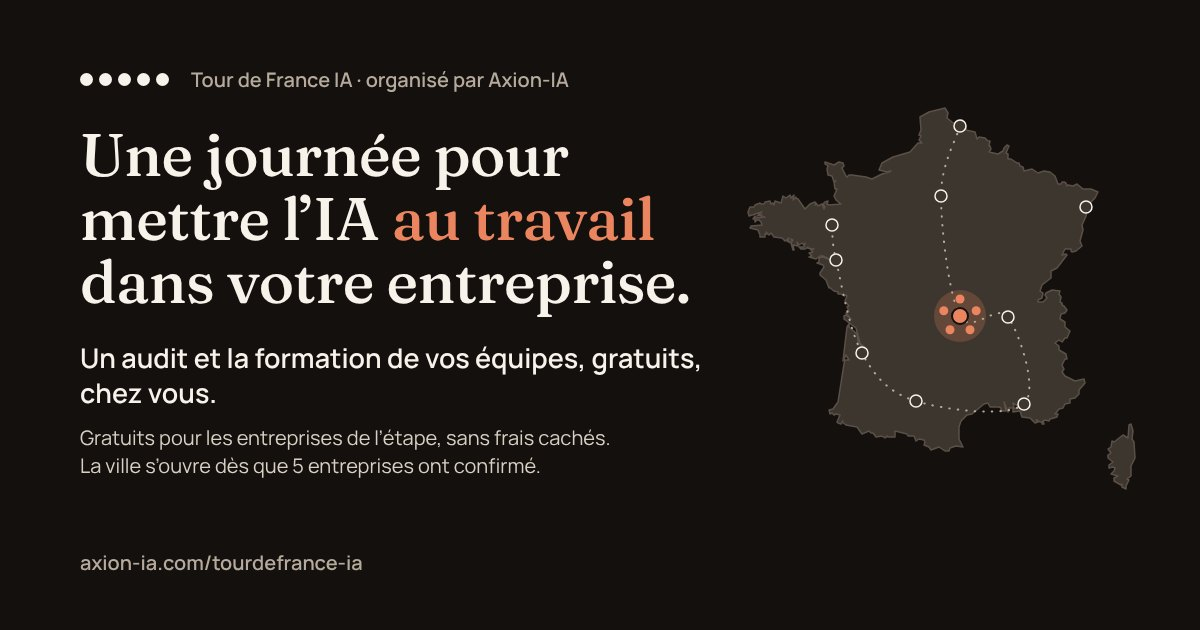
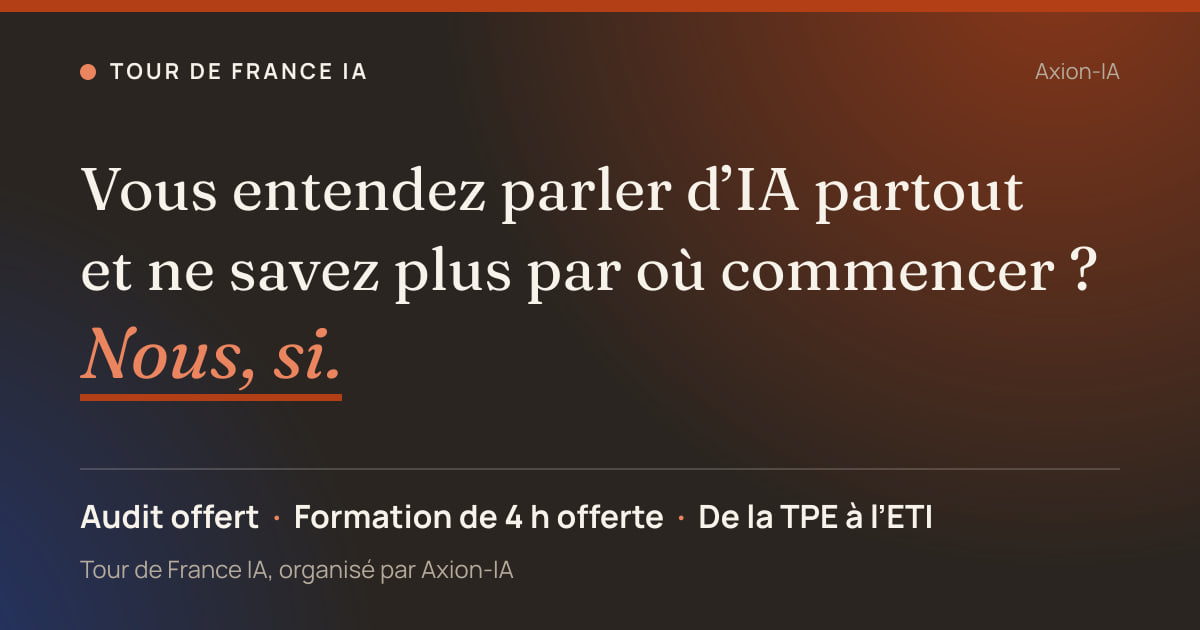
feat(tour): finitions de la landing /tourdefrance-ia (image de partage, premier écran, a11y) (#1710)
* feat(tour): finitions de la landing après relecture de #1706

- image de partage régénérée (accroche de Will, audit et formation de 4 h
  offerts, de la TPE à l'ETI), 68,6 Ko, avec son script de génération ;
- textes alternatifs alignés sur l'image réelle (META.imageAlt, *.alt.txt) ;
- FAQ « Pourquoi 5 entreprises ? » reformulée ;
- héros : sous `sm`, la condition passe sous le bouton (bouton visible à 360 × 640) ;
- logo de l'en-tête : role="img" pour que son aria-label soit lu ;
- libellés « Participer » remplacés par le vocabulaire de la landing.

Claude-Session: https://claude.ai/code/session_014YydL9wfGpRZm7irPaUxob

* test(tour): renforce les tests d'ordre de la condition et de comptage de l'accroche

- La condition du héros existe en deux copies (hidden sm:block avant le
  bouton, sm:hidden juste après sur mobile) : le test vérifie les deux,
  leur classe et leur position.
- L'accroche complète ne peut apparaître que deux fois (H1 + imageAlt).

Claude-Session: https://claude.ai/code/session_01B1YDyreJHkCLbUbvwirM5M

---------

diff --git a/src/app/tourdefrance-ia/__tests__/la-landing-convertit.spec.tsx b/src/app/tourdefrance-ia/__tests__/la-landing-convertit.spec.tsx
@@ -143,12 +143,25 @@ describe("🔑 une seule action : l'audit offert", () => {
     expect(lire(`${DOSSIER}/layout.tsx`)).toContain("overflow-x-clip");
   });
 
-  it("le héros dit l'offre, sa condition et le bouton AVANT le dessin (ordre de lecture)", () => {
+  it("condition avant le bouton à partir de sm, juste sous le bouton sur mobile", () => {
     const i = (s: string) => PAGE.indexOf(s);
     expect(i("<h1")).toBeGreaterThan(-1);
     expect(i("<h1")).toBeLessThan(i("{HEROS.sousTitre}"));
-    expect(i("{HEROS.condition}")).toBeLessThan(i("id={ID_CTA_HEROS}"));
-    expect(i("id={ID_CTA_HEROS}")).toBeLessThan(i("<CarteFrance"));
+    // La condition existe en DEUX copies, une seule affichée selon la largeur.
+    expect(PAGE.match(/\{HEROS\.condition\}/g)).toHaveLength(2);
+    const large = i("{HEROS.condition}");
+    const mobile = PAGE.indexOf("{HEROS.condition}", large + 1);
+    const balise = (pos: number) => PAGE.slice(PAGE.lastIndexOf("<p", pos), pos);
+    const cta = i("id={ID_CTA_HEROS}");
+    // Écrans larges : la copie `hidden sm:block`, AVANT le bouton.
+    expect(balise(large)).toMatch(/className="[^"]*\bhidden\b[^"]*"/);
+    expect(balise(large)).toContain("sm:block");
+    expect(large).toBeLessThan(cta);
+    // Mobile : la copie `sm:hidden`, APRÈS le bouton et AVANT le dessin.
+    expect(balise(mobile)).toContain("sm:hidden");
+    expect(mobile).toBeGreaterThan(cta);
+    expect(mobile).toBeLessThan(i("<CarteFrance"));
+    expect(cta).toBeLessThan(i("<CarteFrance"));
     // Le bouton du héros reste le premier GRAND bouton de la page.
     expect(i('depuis="tdf-heros"')).toBeLessThan(i('depuis="tdf-bandeau"'));
   });
@@ -609,8 +622,10 @@ describe("🔴 le vocabulaire de la landing", () => {
   });
 
   it("ni promesse de résultat ni construction du slogan d'Axion (« partout… sauf »)", () => {
-    // « partout » n'est permis que dans l'accroche de Will, le H1.
-    expect(texte.replace(HEROS.titreAvant, "")).not.toMatch(/\bpartout\b/i);
+    // « partout » n'est permis que dans l'accroche de Will : le H1, et le texte
+    // alternatif de l'image de partage, qui la recopie.
+    expect(texte.split(HEROS.titreAvant).length - 1).toBe(2);
+    expect(texte.replaceAll(HEROS.titreAvant, "")).not.toMatch(/\bpartout\b/i);
     expect(texte).not.toMatch(/\bsauf\b/i);
     expect(texte).not.toMatch(/d[èe]s le lendemain|ce que vous ne voyez plus|gagner du temps/i);
     // L'audit « chiffre » ou « met en évidence » : il ne garantit rien.

diff --git a/src/app/tourdefrance-ia/page.tsx b/src/app/tourdefrance-ia/page.tsx
@@ -8,8 +8,9 @@
 // `types-reservables.ts`) → Calendly → console.
 //
 // Écrite pour ce trafic-là : mobile d'abord, navigateur intégré de Facebook,
-// 4G, trois secondes d'attention. Donc : la promesse, l'offre, sa condition et
-// le bouton tiennent dans le premier écran d'un téléphone ; UNE seule action,
+// 4G, trois secondes d'attention. Donc : la promesse, l'offre et le bouton
+// tiennent dans le premier écran d'un téléphone (360 × 640) — la condition de
+// l'offre passe juste sous le bouton sous `sm`, au-dessus ailleurs ; UNE seule action,
 // répétée à cinq emplacements fixes (`EMPLACEMENTS_CTA`), aucun menu.
 //
 // Charte : celle du site (`globals.css`). En-tête terracotta et logo en badge
@@ -177,6 +178,7 @@ export default async function TourDeFranceIaPage() {
         <div className={`${CONTENEUR} flex min-h-16 items-center gap-3 py-2.5`}>
           <p
             className="bg-paper text-fg shadow-subtle inline-flex items-baseline rounded-lg px-3 py-2 font-serif text-[1.375rem] leading-none font-medium tracking-tight"
+            role="img"
             aria-label={ENTETE.logo}
           >
             {ENTETE.marque}
@@ -230,12 +232,18 @@ export default async function TourDeFranceIaPage() {
               <p className="mt-5 max-w-xl text-lg leading-snug font-semibold sm:text-xl">
                 {HEROS.sousTitre}
               </p>
-              <p className="text-mocha-fg-muted mt-3 max-w-xl text-[0.9375rem] leading-relaxed">
+              <p className="text-mocha-fg-muted mt-3 hidden max-w-xl text-[0.9375rem] leading-relaxed sm:block">
                 {HEROS.condition}
               </p>
               <div className="mt-6 flex flex-col gap-2.5 sm:mt-8 sm:items-start">
                 <BoutonAudit depuis="tdf-heros" id={ID_CTA_HEROS} />
                 <p className="text-mocha-fg-muted text-sm sm:pl-2">{MICRO_TEXTE_CTA}</p>
+                {/* Sous `sm`, la condition passe juste SOUS le bouton : à 360 × 640 elle
+                    le poussait sous la ligne de flottaison. Une seule des deux copies est
+                    affichée (`display: none` pour l'autre), elle n'est donc lue qu'une fois. */}
+                <p className="text-mocha-fg-muted mt-1 max-w-xl text-[0.9375rem] leading-relaxed sm:hidden">
+                  {HEROS.condition}
+                </p>
               </div>
             </div>
 

diff --git a/src/app/tourdefrance-ia/contenu.ts b/src/app/tourdefrance-ia/contenu.ts
@@ -99,12 +99,12 @@ export const META = {
    */
   image: `${TOUR_PREFIX}/opengraph-image.jpg`,
   imageAlt:
-    "Tour de France IA, organisé par Axion-IA : une carte de France stylisée, une étape s’ouvre à 5 entreprises.",
+    "Tour de France IA, organisé par Axion-IA : sur fond sombre aux couleurs d’Axion-IA, « Vous entendez parler d’IA partout et ne savez plus par où commencer ? Nous, si. » Audit offert, formation de 4 h offerte, de la TPE à l’ETI.",
 } as const;
 
 /** L'en-tête du tunnel : le logo, et c'est tout (le bouton porte `LIBELLE_CTA_COURT`). */
 export const ENTETE = {
-  /** Nom accessible du logo (le dessin dit « Axion-IA » en lettres). */
+  /** Nom accessible du logo (`role="img"` : le tiret dessiné est décoratif, le nom le porte). */
   logo: "Axion-IA",
   marque: "Axion",
   marqueAccent: "IA",
@@ -299,7 +299,7 @@ export const FAQ = {
     {
       question: "Pourquoi 5 entreprises ?",
       reponse:
-        "C’est le seuil pour qu’une étape ait lieu : le Tour s’installe une semaine dans la ville. Si votre secteur n’atteint pas encore 5, nous vous prévenons dès que l’étape devient possible près de chez vous.",
+        "C’est le seuil pour qu’une étape ait lieu : le Tour s’installe une semaine dans la ville. Tant que votre secteur géographique n’atteint pas 5 entreprises, nous vous prévenons dès que l’étape devient possible près de chez vous.",
     },
     {
       question: "Est-ce pour mon entreprise ?",

diff --git a/src/features/admin-tunnels/tour-entonnoir.ts b/src/features/admin-tunnels/tour-entonnoir.ts
@@ -5,7 +5,7 @@
  *
  * Le parcours, et ce que chaque marche mesure VRAIMENT :
  *
- *   landing `/tourdefrance-ia`  →  bouton « Participer »  →  page de réservation
+ *   landing `/tourdefrance-ia`  →  bouton « Je veux mon audit offert »  →  page de réservation
  *   `/fr/appel/tour-de-france-ia?depuis=tdf-…`  →  rendez-vous pris  →  maintenu
  *   →  honoré.
  *
@@ -16,7 +16,8 @@
  * place. Changer cela est une décision de Will, pas un détail de code.
  *
  * Deux sources, deux unités, dites à l'écran :
- *   · les ARRIVÉES sur la page de réservation (= clics « Participer ») viennent
+ *   · les ARRIVÉES sur la page de réservation (= clics « Je veux mon audit offert »,
+ *     qui demandent la venue du Tour chez vous) viennent
  *     des balises anonymes (`funnel_events`, tunnel `tour`) et se comptent en
  *     SESSIONS ;
  *   · les RENDEZ-VOUS viennent de `calendly_events` (type `tour_de_france_ia`)

diff --git a/src/features/admin-tunnels/__tests__/le-tour-est-un-tunnel-de-la-console.spec.ts b/src/features/admin-tunnels/__tests__/le-tour-est-un-tunnel-de-la-console.spec.ts
@@ -82,7 +82,7 @@ describe("1. du bouton à la page de rendez-vous : `depuis` et UTM", () => {
     expect(utmSourceParDefaut("tour")).toBe("tour-de-france-ia");
   });
 
-  it("la page de rendez-vous du Tour, et elle seule, émet l'arrivée (clic « Participer »)", () => {
+  it("la page de rendez-vous du Tour, et elle seule, émet l'arrivée (clic « Je veux mon audit offert »)", () => {
     const page = lire("src/app/[locale]/appel/page.tsx");
     expect(page).toMatch(
       /choix === "tour" \? \(\s*<ArriveeReservationMesure landing="tour-de-france-ia" placement=\{depuis\} \/>/,
